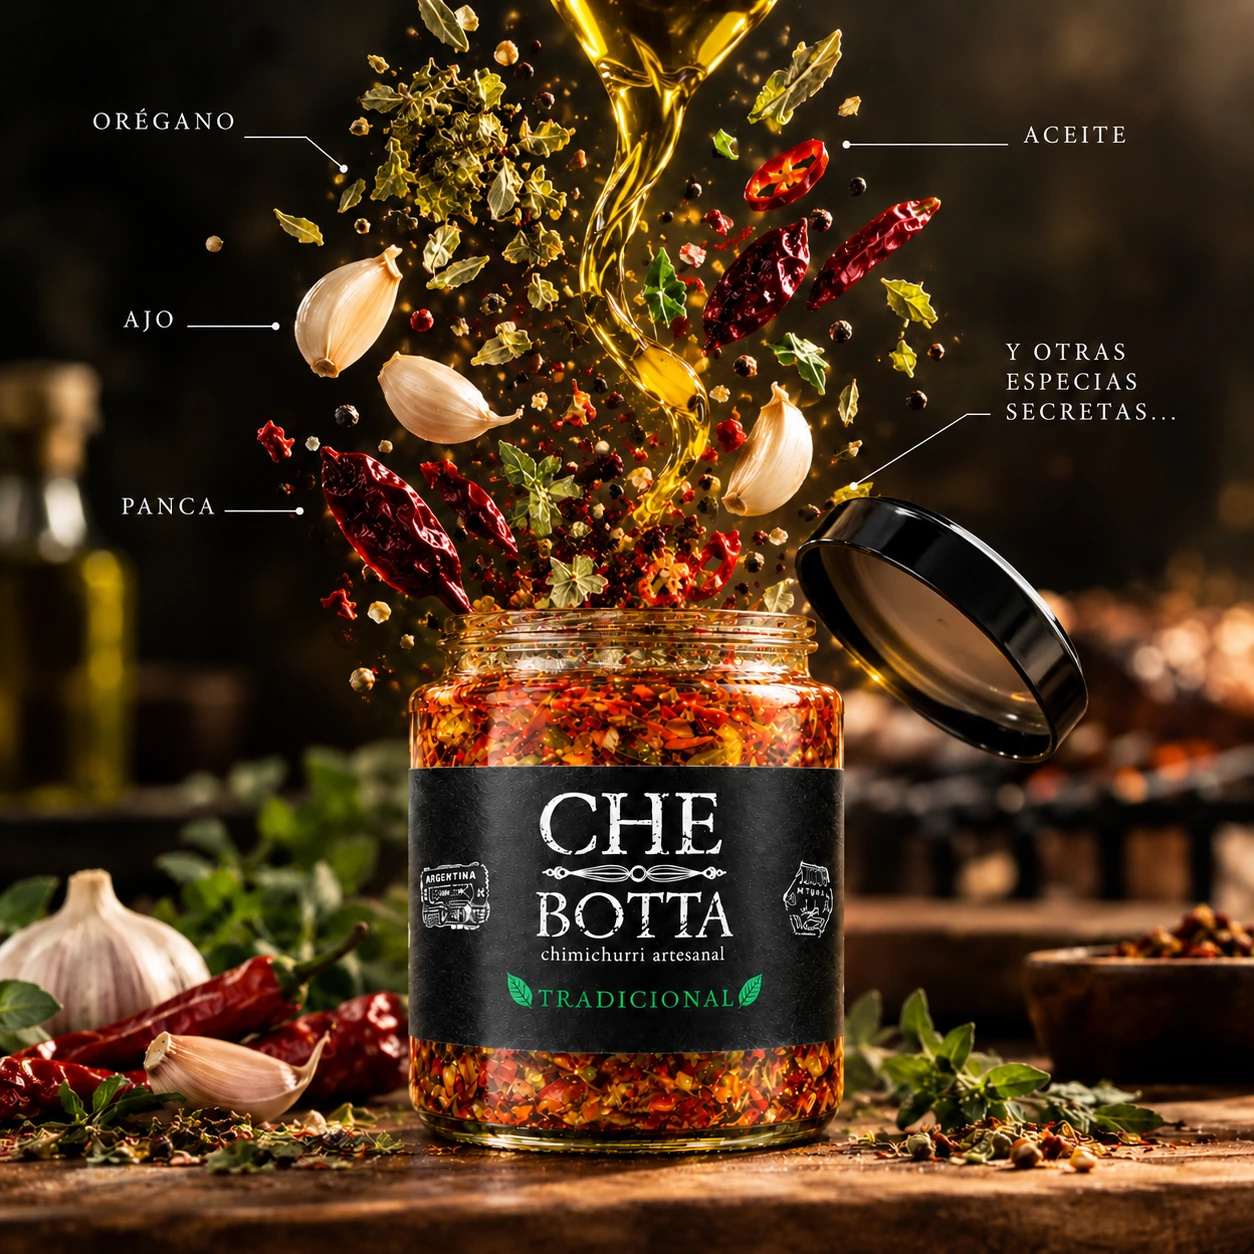
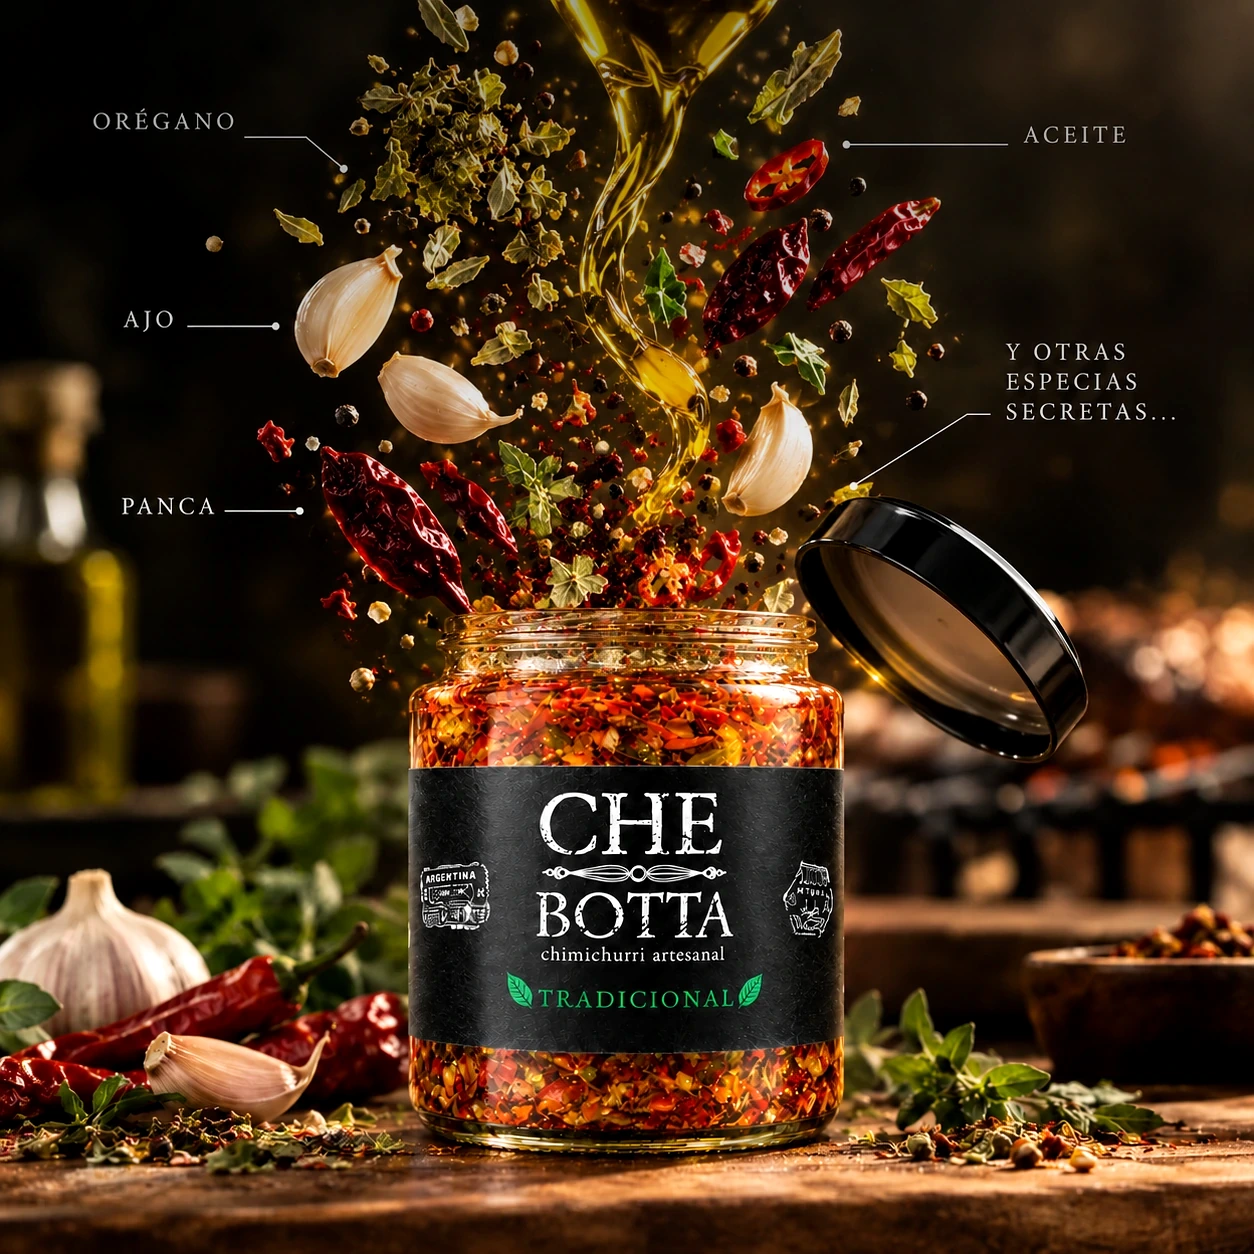
Ajustes al destacado: sin numeracion, foto con mas contraste, punto de intensidad corregido
- Se quita el "01/03", no aportaba nada y generaba ruido visual
- Foto de ingredientes con degradado superior + contraste/nitidez para
  que las etiquetas (oregano, aceite, ajo, panca, otras especias) se
  lean mejor contra el fondo
- Corregido el punto verde de intensidad: la variable --accent no
  llegaba a la columna de texto porque solo estaba definida en la
  columna de la foto; ahora se define a nivel de todo el componente

diff --git a/css/styles.css b/css/styles.css
@@ -614,6 +614,7 @@ body::before {
 /* ---------- Premium destacado ---------- */
 .productos { background: var(--carbon); }
 .premium {
+  --accent: var(--oro-2);
   position: relative; overflow: hidden;
   display: grid; grid-template-columns: 1fr 1fr; align-items: center; gap: clamp(2rem, 5vw, 5rem);
   padding: clamp(2rem, 4vw, 3.5rem);
@@ -644,17 +645,12 @@ body::before {
 }
 
 /* Zona visual: ficha de catálogo + foto enmarcada + sello */
-.premium__visual { position: relative; --accent: var(--oro-2); }
+.premium__visual { position: relative; }
 .premium__kicker {
   display: flex; flex-direction: column; align-items: center; gap: .6rem;
   padding-bottom: 1.1rem; margin-bottom: 1rem;
   border-bottom: 1px solid rgba(230,201,135,.22);
 }
-.premium__num {
-  font-family: var(--sans); font-size: .68rem; font-weight: 700; letter-spacing: .22em; color: var(--crema-3);
-  display: flex; align-items: baseline; gap: .3rem;
-}
-.premium__num small { font-size: .68rem; font-weight: 700; color: var(--crema-3); letter-spacing: .1em; opacity: .6; }
 .premium__claim {
   display: flex; align-items: center; gap: .5rem;
   padding: .65rem 1.4rem; border-radius: 999px;
@@ -721,7 +717,7 @@ body::before {
 .premium__more:hover { border-color: var(--oro-2); }
 
 /* Variante Tradicional (verde de marca) */
-.premium--tradicional { border-color: rgba(112,191,68,.28); box-shadow: 0 60px 120px -50px rgba(0,0,0,.9), inset 0 1px 0 rgba(112,191,68,.15); }
+.premium--tradicional { --accent: var(--verde); border-color: rgba(112,191,68,.28); box-shadow: 0 60px 120px -50px rgba(0,0,0,.9), inset 0 1px 0 rgba(112,191,68,.15); }
 .premium--tradicional::before { background: linear-gradient(120deg, transparent 30%, rgba(112,191,68,.06) 50%, transparent 70%); }
 .premium--tradicional .premium__glow { background: radial-gradient(circle, rgba(112,191,68,.28), rgba(112,191,68,.08) 45%, transparent 70%); }
 .premium--tradicional .premium__border { background: conic-gradient(from var(--a, 0deg), transparent 0 60%, rgba(130,208,84,.9) 72%, transparent 84%); }
@@ -730,7 +726,6 @@ body::before {
   box-shadow: 0 30px 60px -25px rgba(0,0,0,.9), 0 0 0 1px rgba(112,191,68,.25);
 }
 .premium--tradicional .premium__media::after { box-shadow: inset 0 0 0 1px rgba(112,191,68,.18); }
-.premium--tradicional .premium__visual { --accent: var(--verde); }
 .premium--tradicional .premium__kicker { border-bottom-color: rgba(112,191,68,.25); }
 .premium--tradicional .premium__title em { font-style: italic; font-weight: 500; color: var(--verde); }
 .premium--tradicional .premium__list i { border-color: rgba(112,191,68,.6); }

diff --git a/index.html b/index.html
@@ -341,7 +341,6 @@
 
           <div class="premium__visual">
             <div class="premium__kicker">
-              <span class="premium__num">01<small>/03</small></span>
               <span class="premium__claim"><span>El original</span><i>·</i><span>El más vendido</span></span>
             </div>
             <div class="premium__media">
